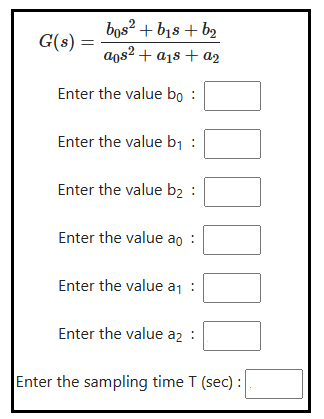
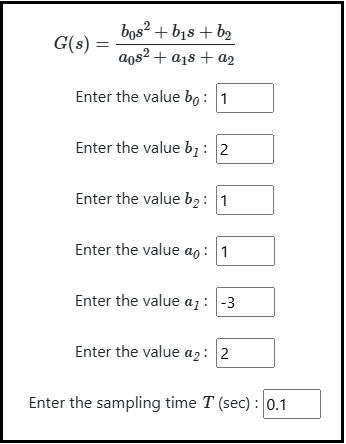
update new aug 29

diff --git a/experiment/simulation/index.html b/experiment/simulation/index.html
@@ -11,7 +11,7 @@
 <!DOCTYPE html>
 <html lang="en"><!--html tag start-->
 <head>
-    <title>Compare the frequency responses with methods and for different sampling times</title>
+    <title>Compare the Frequency Responses using Different Methods and Sampling Times</title>
     <meta charset="UTF-8">
     <meta http-equiv="X-UA-Compatible" content="IE=edge">
     <meta name="viewport" content="width=device-width, initial-scale=1.0">
@@ -139,9 +139,9 @@
         <div class="col-md-10"><!--2nd col under 3rd container start-->
             <p class="text-center bg-success"> <a class="nav-link" data-bs-toggle="tab"  id="instcontrol" style="background-color:#128BD9"  ><span class=" h3 text-dark"> Instructions </span></a>
               <ol id="inst" style="display:block;height:200px;overflow-y:auto;">
-                      <li> At first enter the coefficient values of the transfer function and sampling time. Here default sampling time T is 0.1.</li></br>
+                      <li> At first enter the coefficient values of the transfer function and sampling time. Here default sampling time <span style="font-family:'Bodoni MT';font-style:italic;font-size:18px">T</span> is 0.1.</li></br>
   
-					  <li> Click on 'G(s)' button to get the partial fraction form of the transfer function. </li><br/>
+					  <li> Click on '<span style="font-family:Bodoni MT; font-style:italic;font-size:18px">G</span>(<span style="font-family:Bodoni MT; font-style:italic;font-size:18px">s</span>)' button to get the partial fraction form of the transfer function. </li><br/>
 					 
 					 <li> Clicking on 'Discretization' dropdown-menu to get different methods.</li><br/>
 
@@ -182,30 +182,30 @@
 	
 			<div   class="img-container">			
 			<!--<img class = "img-fluid" src="./images/Continuous_System.png" class="img-fluid" > <br/></br>-->
-			Enter the value b<sub>0</sub>&nbsp; : &nbsp;<input type="number" id="b_0" min="1" value="1" max="10" step="1" style="position:absolute;width:25%" ><br/></br>
-			Enter the value b<sub>1</sub>&nbsp; : &nbsp;<input type="number" id="b_1" min="1" value="2" max="10" step="1" style="position:absolute;width:25%" ><br/></br>
-			Enter the value b<sub>2</sub>&nbsp; : &nbsp;<input type="number" id="b_2" min="1" value="1" max="10" step="1" style="position:absolute;width:25%" ><br/></br>
-            Enter the value a<sub>0</sub>&nbsp; : &nbsp;<input type="number" id="a_0" min="1" value="1" max="10" step="1" style="position:absolute;width:25%" ><br/></br>	
-            Enter the value a<sub>1</sub>&nbsp; : &nbsp;<input type="number" id="a_1" min="-10" value="-3" max="1000" step="1" style="position:absolute;width:25%" ><br/></br>
-            Enter the value a<sub>2</sub>&nbsp; : &nbsp;<input type="number" id="a_2" min="1" value="2" max="1000" step="1" style="position:absolute;width:25%" ><br/></br> 	
+			Enter the value <span style="font-family:'Bodoni MT';font-style:italic;font-size:18px">b<sub>0</sub></span> : &nbsp;<input type="number" id="b_0" min="1" value="1" max="10" step="1" style="position:absolute;width:25%" ><br/></br>
+			Enter the value <span style="font-family:'Bodoni MT';font-style:italic;font-size:18px">b<sub>1</sub></span> : &nbsp;<input type="number" id="b_1" min="1" value="2" max="10" step="1" style="position:absolute;width:25%" ><br/></br>
+			Enter the value <span style="font-family:'Bodoni MT';font-style:italic;font-size:18px">b<sub>2</sub></span> : &nbsp;<input type="number" id="b_2" min="1" value="1" max="10" step="1" style="position:absolute;width:25%" ><br/></br>
+            Enter the value <span style="font-family:'Bodoni MT';font-style:italic;font-size:18px">a<sub>0</sub></span> : &nbsp;<input type="number" id="a_0" min="1" value="1" max="10" step="1" style="position:absolute;width:25%" ><br/></br>	
+            Enter the value <span style="font-family:'Bodoni MT';font-style:italic;font-size:18px">a<sub>1</sub></span> : &nbsp;<input type="number" id="a_1" min="-10" value="-3" max="1000" step="1" style="position:absolute;width:25%" ><br/></br>
+            Enter the value <span style="font-family:'Bodoni MT';font-style:italic;font-size:18px">a<sub>2</sub></span> : &nbsp;<input type="number" id="a_2" min="1" value="2" max="1000" step="1" style="position:absolute;width:25%" ><br/></br> 	
 			<!--Enter the desired sampling time :    <input type="number" id="Ts" min="0.01" value="0.1" max="10" step="0.01" style="position:absolute;width:20%"readonly=readonly><br/></br>-->
 									
-			Enter the    sampling time T (sec)&nbsp; :    &nbsp;<input type="number" onchange="inputChange()" id="Ts" min="0.01" value="0.1" max="0.5" step="0.01" style="position:absolute;width:30%"><br/></br>				
+			Enter the    sampling time <span style="font-family:'Bodoni MT';font-style:italic;font-size:18px">T</span> (sec) :&nbsp;    <input type="number" onchange="inputChange()" id="Ts" min="0.01" value="0.1" max="0.5" step="0.01" style="position:absolute;width:25%"><br/></br>				
 			
-			<button class="btn btn-success" id ="run" onclick="system()">G(s)</button>
+			<button class="btn btn-success" id ="run" onclick="system()"><span style="font-family:Bodoni MT; font-style:italic;font-size:18px">G</span>(<span style="font-family:Bodoni MT; font-style:italic;font-size:18px">s</span>)</button>
 			
 			</div></div>
 			
 			<div id="tfbody" class="card" style="display:none; width:100%;background-color:none">
 			<br/>			
 			<span class="card-text "><b>Transfer Function of Continuous System</b></span><br/><br/><br/>			
-			<span class="card-text" ><b style="position:absolute;width: 6%;left:27%;top: 61%;">G (s) =</b></span> 
-			<span  class="card-text fontCss" >&nbsp;&nbsp;<input type="number" id="tfn1" value="0" readonly=readonly style="width:5%;text-align:center;border:none">&nbsp;<b>s<sup>2</sup></b>
-			+ &nbsp;<input type="number" id="tfn2" value="0" readonly=readonly style="width:5%;text-align:center;border:none">&nbsp;<b>s</b> 
+			<span class="card-text" ><b style="position:absolute;width: 6%;left:27%;top: 61%;"><span style="font-family:Bodoni MT; font-style:italic;font-size:18px">G</span>(<span style="font-family:Bodoni MT; font-style:italic;font-size:18px">s</span>) =</b></span> 
+			<span  class="card-text fontCss" >&nbsp;&nbsp;<input type="number" id="tfn1" value="0" readonly=readonly style="width:5%;text-align:center;border:none">&nbsp;<b><span style="font-family:Bodoni MT; font-style:italic;font-size:18px">s<sup>2</sup></span></b>
+			+ &nbsp;<input type="number" id="tfn2" value="0" readonly=readonly style="width:5%;text-align:center;border:none">&nbsp;<b><span style="font-family:Bodoni MT; font-style:italic;font-size:18px">s</span></b> 
 			+ &nbsp; <input type="number" id="tfn3" value="0" readonly=readonly style="width:5%;text-align:center;border:none"></span><br/>
 			<br/>
-			<span  class="card-text fontCss" >&nbsp;&nbsp;<input type="number" id="tfd1" value="0" readonly=readonly style="width:5%;text-align:center;border:none">&nbsp;<b>s<sup>2</sup></b>
-			+ &nbsp;<input type="number" id="tfd2" value="0" readonly=readonly style="width:5%;text-align:center;border:none">&nbsp;<b>s</b> 
+			<span  class="card-text fontCss" >&nbsp;&nbsp;<input type="number" id="tfd1" value="0" readonly=readonly style="width:5%;text-align:center;border:none">&nbsp;<b><span style="font-family:Bodoni MT; font-style:italic;font-size:18px">s<sup>2</sup></span></b>
+			+ &nbsp;<input type="number" id="tfd2" value="0" readonly=readonly style="width:5%;text-align:center;border:none">&nbsp;<b><span style="font-family:Bodoni MT; font-style:italic;font-size:18px">s</span></b> 
 			+ &nbsp; <input type="number" id="tfd3" value="0" readonly=readonly style="width:5%;text-align:center;border:none"></span>
 			<hr  style="position:absolute;width: 33%;left: 34%;top: 59%;">
 						
@@ -253,7 +253,7 @@
 			
 			
 			<div  id="pfG" class="img-container" style="visibility:hidden">			
-			<b>Partial Fractions form of given system, G(s):</b></br>
+			<b>Partial Fractions form of given system, <span style="font-family:Bodoni MT; font-style:italic;font-size:18px">G</span>(<span style="font-family:Bodoni MT; font-style:italic;font-size:18px">s</span>):</b></br>
 			<!--<img class = "img-fluid" src="./images/pf.png" class="img-fluid" > <br/></br> -->
 			
 			<div id="tfbody2" class="card" style="display:none;width:100%;min-width:1000px;background-color:none">
@@ -262,23 +262,23 @@
 			$$G (s) = \frac{b_0 s^2 + b_1 s + b_2}{a_0 s^2 + a_1 s + a_2} = b_0 + \frac{e_0 s + e_1}{a_0 s^2 + a_1 s + a_2} = b_0 + \frac{A_1}{s + (p_1)} + \frac{A_2}{s + (p_2)}$$
 			<!--<span class="card-text "><b>Equation example</b></span><br/><br/><br/>	-->
 		
-			<span class="card-text" ><b style="position:absolute;min-width:5%;left:0%;top:70%;"><span class="fontCss">G</span>(s) =</b></span>
+			<span class="card-text" ><b style="position:absolute;min-width:5%;left:0%;top:70%;"><span style="font-family:Bodoni MT; font-style:italic;font-size:18px">G</span>(<span style="font-family:Bodoni MT; font-style:italic;font-size:18px">s</span>) =</b></span>
 			
-			<span  class="card-text fontCss"style="position:absolute;left:-17%;top: 62%;" >&nbsp;&nbsp;<input type="number" id="tfn4" value="0" readonly=readonly style="width:6%;text-align:center;border:none">&nbsp;<b>s<sup>2</sup></b>
-			+ &nbsp;<input type="number" id="tfn5" value="0" readonly=readonly style="width:6%;text-align:center;border:none">&nbsp;<b>s</b> 
+			<span  class="card-text fontCss"style="position:absolute;left:-17%;top: 62%;" >&nbsp;&nbsp;<input type="number" id="tfn4" value="0" readonly=readonly style="width:6%;text-align:center;border:none">&nbsp;<b><span style="font-family:Bodoni MT; font-style:italic;font-size:18px">s<sup>2</sup></span></b>
+			+ &nbsp;<input type="number" id="tfn5" value="0" readonly=readonly style="width:6%;text-align:center;border:none">&nbsp;<b><span style="font-family:Bodoni MT; font-style:italic;font-size:18px">s</span></b> 
 			+ &nbsp; <input type="number" id="tfn6" value="0" readonly=readonly style="width:6%;text-align:center;border:none"></span><br/>
 			<br/>
-			<span  class="card-text fontCss" style="position:absolute;left:-17%;top: 78%;">&nbsp;&nbsp;<input type="number" id="tfd4" value="0" readonly=readonly style="width:6%;text-align:center;border:none">&nbsp;<b>s<sup>2</sup></b>
-			+ &nbsp;<input type="number" id="tfd5" value="0" readonly=readonly style="width:6%;text-align:center;border:none">&nbsp;<b>s</b> 
+			<span  class="card-text fontCss" style="position:absolute;left:-17%;top: 78%;">&nbsp;&nbsp;<input type="number" id="tfd4" value="0" readonly=readonly style="width:6%;text-align:center;border:none">&nbsp;<b><span style="font-family:Bodoni MT; font-style:italic;font-size:18px">s<sup>2</sup></span></b>
+			+ &nbsp;<input type="number" id="tfd5" value="0" readonly=readonly style="width:6%;text-align:center;border:none">&nbsp;<b><span style="font-family:Bodoni MT; font-style:italic;font-size:18px">s</span></b> 
 			+ &nbsp; <input type="number" id="tfd6" value="0" readonly=readonly style="width:6%;text-align:center;border:none"></span>
 			<hr  style="position:absolute;width: 18%;left: 6%;top: 69%;">
 			
 			<span style="position:absolute;left:18%;top: 70%;">=<input type="number" id="tfn7" value="0" readonly=readonly style="width:18%;text-align:center;border:none;"> + </span>
 			
-			<span style="position:absolute;left:23%;top: 62%;"><input type="number" id="tfn8" value="0" readonly=readonly style="width:20%;text-align:center;border:none;"> s + 
+			<span style="position:absolute;left:23%;top: 62%;"><input type="number" id="tfn8" value="0" readonly=readonly style="width:20%;text-align:center;border:none;"> <b> <span style="font-family:Bodoni MT; font-style:italic;font-size:18px">s</sup></span></b> + 
 			<input type="number" id="tfn9" value="0" readonly=readonly style="width:20%;text-align:center;border:none;"></span>
-			<span  class="card-text fontCss" style="position:absolute;left:10%;top: 78%;">&nbsp;&nbsp;<input type="number" id="tfd7" value="0" readonly=readonly style="width:5%;text-align:center;border:none">&nbsp;<b>s<sup>2</sup></b>
-			+ &nbsp;<input type="number" id="tfd8" value="0" readonly=readonly style="width:6%;text-align:center;border:none">&nbsp;<b>s</b> 
+			<span  class="card-text fontCss" style="position:absolute;left:10%;top: 78%;">&nbsp;&nbsp;<input type="number" id="tfd7" value="0" readonly=readonly style="width:5%;text-align:center;border:none">&nbsp;<b><span style="font-family:Bodoni MT; font-style:italic;font-size:18px">s<sup>2</sup></span></b>
+			+ &nbsp;<input type="number" id="tfd8" value="0" readonly=readonly style="width:6%;text-align:center;border:none">&nbsp;<b><span style="font-family:Bodoni MT; font-style:italic;font-size:18px">s</span></b> 
 			+ &nbsp; <input type="number" id="tfd9" value="0" readonly=readonly style="width:6%;text-align:center;border:none"></span>
 			<hr  style="position:absolute;width: 19%;left:33%;top:69%;">
 			
@@ -286,13 +286,13 @@
 			
 			<span style="position:absolute;left:46%;top: 70%;">= <input type="number" id="tfn10" value="0" readonly=readonly style="width:18%;text-align:center;border:none;"> + </span>
 			<span style="position:absolute;left:56%;top: 62%;"><input type="text" id="tfn11" value="0" readonly=readonly style="width:55%;text-align:center;border:none;"></span>			
-			<span style="position:absolute;left:57%;top: 77%;">s +( <input type="text" id="tfd10" value="0" readonly=readonly style="width:45%;text-align:center;border:none;">)</span>
+			<span style="position:absolute;left:57%;top: 77%;"><b><span style="font-family:Bodoni MT; font-style:italic;font-size:18px">s</span> </b>+( <input type="text" id="tfd10" value="0" readonly=readonly style="width:45%;text-align:center;border:none;">)</span>
 			
 			<hr  style="position:absolute;width: 18%;left:61%;top:69%;">
 			
 			<span style="position:absolute;left:80%;top: 70%;">+</span>
 			<span style="position:absolute;left:78%;top: 62%;"><input type="text" id="tfn12" value="0" readonly=readonly style="width:55%;text-align:center;border:none;"></span>
-			<span style="position:absolute;left:79%;top: 77%;">s + (<input type="text" id="tfd11" value="0" readonly=readonly style="width:45%;text-align:center;border:none;">)</span>
+			<span style="position:absolute;left:79%;top: 77%;"><b><span style="font-family:Bodoni MT; font-style:italic;font-size:18px">s</span> </b>+ (<input type="text" id="tfd11" value="0" readonly=readonly style="width:45%;text-align:center;border:none;">)</span>
 			<hr  style="position:absolute;width: 18%;left:82%;top: 69%;">
 									
 			<br/><br/>
@@ -411,18 +411,18 @@
 			+&nbsp;<input type="number" id="tfd18" value="0" readonly=readonly style="width:20%;text-align:center;border:none"></span>
 			<hr  style="position:absolute;width: 24%;left:69%;top: 70%;"> -->	
 			
-			<span class="card-text" ><b style="position:absolute;min-width:6%;left:30%;top:70%;"><span class="fontCss">G</span>(z) =</b></span>
+			<span class="card-text" ><b style="position:absolute;min-width:6%;left:30%;top:70%;"><span style="font-family:Bodoni MT; font-style:italic;font-size:18px">G</span>(<span style="font-family:Bodoni MT; font-style:italic;font-size:18px">z</span>) =</b></span>
 			
 			
 			
 			<span class="card-text"style="position:absolute;left:28%;top: 62%;" >
-			&nbsp;<input type="number" id="tfn19" value="0" readonly=readonly style="width:20%;text-align:center;border:none"><span class="fontCss">z<sup>2</sup></span>
-			+&nbsp;<input type="number" id="tfn20" value="0" readonly=readonly style="width:20%;text-align:center;border:none"><span class="fontCss">z</span>
+			&nbsp;<input type="number" id="tfn19" value="0" readonly=readonly style="width:20%;text-align:center;border:none"><b><span style="font-family:Bodoni MT; font-style:italic;font-size:18px">z<sup>2</sup></span></b>
+			+&nbsp;<input type="number" id="tfn20" value="0" readonly=readonly style="width:20%;text-align:center;border:none"><b><span style="font-family:Bodoni MT; font-style:italic;font-size:18px">z</span></b>
 			+&nbsp;<input type="number" id="tfn21" value="0" readonly=readonly style="width:20%;text-align:center;border:none"></span>
 			
 			<span class="card-text"style="position:absolute;left:28%;top: 80%;" >
-			&nbsp;<input type="number" id="tfd16" value="0" readonly=readonly style="width:20%;text-align:center;border:none"><span class="fontCss">z<sup>2</sup></span>
-			+&nbsp;<input type="number" id="tfd17" value="0" readonly=readonly style="width:20%;text-align:center;border:none"><span class="fontCss">z</span>
+			&nbsp;<input type="number" id="tfd16" value="0" readonly=readonly style="width:20%;text-align:center;border:none"><b><span style="font-family:Bodoni MT; font-style:italic;font-size:18px">z<sup>2</sup></span></b>
+			+&nbsp;<input type="number" id="tfd17" value="0" readonly=readonly style="width:20%;text-align:center;border:none"><b><span style="font-family:Bodoni MT; font-style:italic;font-size:18px">z</span></b>
 			+&nbsp;<input type="number" id="tfd18" value="0" readonly=readonly style="width:20%;text-align:center;border:none"></span>
 			<hr  style="position:absolute;width: 36%;left:40%;top: 70%;">		
 
@@ -494,13 +494,13 @@
 			
 			
 			<span class="card-text"style="position:absolute;left:28%;top: 62%;" >
-			&nbsp;<input type="number" id="tfnf19" value="0" readonly=readonly style="width:20%;text-align:center;border:none"><span class="fontCss">e<sup>j2ω </sup></span>
-			+&nbsp;<input type="number" id="tfnf20" value="0" readonly=readonly style="width:20%;text-align:center;border:none"><span class="fontCss">e<sup>jω </sup></span>
+			&nbsp;<input type="number" id="tfnf19" value="0" readonly=readonly style="width:20%;text-align:center;border:none"><b><span style="font-family:Bodoni MT; font-style:italic;font-size:18px">e<sup>j2&omega;</sup></span></b>
+			+&nbsp;<input type="number" id="tfnf20" value="0" readonly=readonly style="width:20%;text-align:center;border:none"><b><span style="font-family:Bodoni MT; font-style:italic;font-size:18px">e<sup>j&omega;</sup></span></b>
 			+&nbsp;<input type="number" id="tfnf21" value="0" readonly=readonly style="width:20%;text-align:center;border:none"></span>
 			
 			<span class="card-text"style="position:absolute;left:28%;top: 80%;" >
-			&nbsp;<input type="number" id="tfdf16" value="0" readonly=readonly style="width:20%;text-align:center;border:none"><span class="fontCss">e<sup>j2ω </sup></span>
-			+&nbsp;<input type="number" id="tfdf17" value="0" readonly=readonly style="width:20%;text-align:center;border:none"><span class="fontCss">e<sup>jω </sup></span>
+			&nbsp;<input type="number" id="tfdf16" value="0" readonly=readonly style="width:20%;text-align:center;border:none"><b><span style="font-family:Bodoni MT; font-style:italic;font-size:18px">e<sup>j2&omega;</sup></span></b>
+			+&nbsp;<input type="number" id="tfdf17" value="0" readonly=readonly style="width:20%;text-align:center;border:none"><b><span style="font-family:Bodoni MT; font-style:italic;font-size:18px">e<sup>j&omega;</sup></span></b>
 			+&nbsp;<input type="number" id="tfdf18" value="0" readonly=readonly style="width:20%;text-align:center;border:none"></span>
 			<hr  style="position:absolute;width: 40%;left:40%;top: 70%;">	
 
@@ -516,18 +516,18 @@
 			$$G (z) = \frac{d_0 z^2 + d_1 z + d_2}{z^2 + c_1 z + c_2}$$
 			<br/>
 		
-			<span class="card-text" ><b style="position:absolute;min-width:6%;left:30%;top:70%;"><span class="fontCss">G</span>(z) =</b></span>
+			<span class="card-text" ><b style="position:absolute;min-width:6%;left:30%;top:70%;"> <span style="font-family:Bodoni MT; font-style:italic;font-size:18px">G</span>(<span style="font-family:Bodoni MT; font-style:italic;font-size:18px">z</span>) =</b></span>
 			
 			
 			
 			<span class="card-text"style="position:absolute;left:28%;top: 62%;" >
-			&nbsp;<input type="number" id="tfn22" value="0" readonly=readonly style="width:20%;text-align:center;border:none"><span class="fontCss">z<sup>2</sup></span>
-			+&nbsp;<input type="number" id="tfn23" value="0" readonly=readonly style="width:20%;text-align:center;border:none"><span class="fontCss">z</span>
+			&nbsp;<input type="number" id="tfn22" value="0" readonly=readonly style="width:20%;text-align:center;border:none"><span style="font-family:Bodoni MT; font-style:italic;font-size:18px">z<sup>2</sup></span></b>
+			+&nbsp;<input type="number" id="tfn23" value="0" readonly=readonly style="width:20%;text-align:center;border:none"><span style="font-family:Bodoni MT; font-style:italic;font-size:18px">z</span></b>
 			+&nbsp;<input type="number" id="tfn24" value="0" readonly=readonly style="width:20%;text-align:center;border:none"></span>
 			
 			<span class="card-text"style="position:absolute;left:28%;top: 80%;" >
-			&nbsp;<input type="number" id="tfd19" value="0" readonly=readonly style="width:20%;text-align:center;border:none"><span class="fontCss">z<sup>2</sup></span>
-			+&nbsp;<input type="number" id="tfd20" value="0" readonly=readonly style="width:20%;text-align:center;border:none"><span class="fontCss">z</span>
+			&nbsp;<input type="number" id="tfd19" value="0" readonly=readonly style="width:20%;text-align:center;border:none"><span style="font-family:Bodoni MT; font-style:italic;font-size:18px">z<sup>2</sup></span></b>
+			+&nbsp;<input type="number" id="tfd20" value="0" readonly=readonly style="width:20%;text-align:center;border:none"><span style="font-family:Bodoni MT; font-style:italic;font-size:18px">z</span></b>
 			+&nbsp;<input type="number" id="tfd21" value="0" readonly=readonly style="width:20%;text-align:center;border:none"></span>
 			<hr  style="position:absolute;width: 36%;left:40%;top: 70%;">						
 			<br/><br/>
@@ -544,13 +544,13 @@
 			
 			
 			<span class="card-text"style="position:absolute;left:28%;top: 62%;" >
-			&nbsp;<input type="number" id="tfnf22" value="0" readonly=readonly style="width:20%;text-align:center;border:none"><span class="fontCss">e<sup>j2ω </sup></span>
-			+&nbsp;<input type="number" id="tfnf23" value="0" readonly=readonly style="width:20%;text-align:center;border:none"><span class="fontCss">e<sup>jω </sup></span>
+			&nbsp;<input type="number" id="tfnf22" value="0" readonly=readonly style="width:20%;text-align:center;border:none"><b><span style="font-family:Bodoni MT; font-style:italic;font-size:18px">e<sup>j2&omega;</sup></span></b>
+			+&nbsp;<input type="number" id="tfnf23" value="0" readonly=readonly style="width:20%;text-align:center;border:none"><b><span style="font-family:Bodoni MT; font-style:italic;font-size:18px">e<sup>j&omega;</sup></span></b>
 			+&nbsp;<input type="number" id="tfnf24" value="0" readonly=readonly style="width:20%;text-align:center;border:none"></span>
 			
 			<span class="card-text"style="position:absolute;left:28%;top: 80%;" >
-			&nbsp;<input type="number" id="tfdf19" value="0" readonly=readonly style="width:20%;text-align:center;border:none"><span class="fontCss">e<sup>j2ω </sup></span>
-			+&nbsp;<input type="number" id="tfdf20" value="0" readonly=readonly style="width:20%;text-align:center;border:none"><span class="fontCss">e<sup>jω </sup></span>
+			&nbsp;<input type="number" id="tfdf19" value="0" readonly=readonly style="width:20%;text-align:center;border:none"><b><span style="font-family:Bodoni MT; font-style:italic;font-size:18px">e<sup>j2&omega;</sup></span></b>
+			+&nbsp;<input type="number" id="tfdf20" value="0" readonly=readonly style="width:20%;text-align:center;border:none"><b><span style="font-family:Bodoni MT; font-style:italic;font-size:18px">e<sup>j&omega;</sup></span></b>
 			+&nbsp;<input type="number" id="tfdf21" value="0" readonly=readonly style="width:20%;text-align:center;border:none"></span>
 			<hr  style="position:absolute;width: 40%;left:40%;top: 70%;">						
 			<br/><br/>

diff --git a/experiment/theory.md b/experiment/theory.md
@@ -1,13 +1,13 @@
 # Theory
 
 <b><i>Impulse Invariance Method:</i></b> <br>
-Using the impulse invariance method, <i>H(z)</i> is directly generated from <i>H(s)</i> using a mapping that depends on the sampling period and the locations of the poles of <i>H(s)</i>. 
-Because the input is an impulse, the system transfer function <i>H(s)</i> is the same as the Laplace transform of the response <i>y(t)</i>.<br>
-The method starts by expressing the Laplace transfer function <i>H(s)</i> in partial form
+Using the impulse invariance method, <span style="font-family:Bodoni MT; font-style:italic;font-size:18px">H</span>(<span style="font-family:Bodoni MT; font-style:italic;font-size:18px">z</span>) is directly generated from <span style="font-family:Bodoni MT; font-style:italic;font-size:18px">H</span>(<span style="font-family:Bodoni MT; font-style:italic;font-size:18px">s</span>) using a mapping that depends on the sampling period and the locations of the poles of <span style="font-family:Bodoni MT; font-style:italic;font-size:18px">H</span>(<span style="font-family:Bodoni MT; font-style:italic;font-size:18px">s</span>). 
+Because the input is an impulse, the system transfer function <span style="font-family:Bodoni MT; font-style:italic;font-size:18px">H</span>(<span style="font-family:Bodoni MT; font-style:italic;font-size:18px">s</span>) is the same as the Laplace transform of the response <span style="font-family:Bodoni MT; font-style:italic;font-size:18px">y</span>(<span style="font-family:Bodoni MT; font-style:italic;font-size:18px">t</span>).<br>
+The method starts by expressing the Laplace transfer function <span style="font-family:Bodoni MT; font-style:italic;font-size:18px">H</span>(<span style="font-family:Bodoni MT; font-style:italic;font-size:18px">s</span>) in partial form
 
 $$ H(s) = \sum_{i=1}^{N}\frac{A_i}{(s-p_i)} \tag{1}$$
 
-where <i> N </i> is the order of the system, poles are located at the points <i>p<sub>i</sub></i>.<br>
+where <span style="font-family:Bodoni MT; font-style:italic;font-size:18px">N</span> is the order of the system, poles are located at the points <span style="font-family:Bodoni MT; font-style:italic;font-size:18px">p<sub>i</sub></span>.<br>
 Then the discrete system can be written as:
 
 $$ H(z) = \sum_{i=1}^{N}\frac{T A_i}{(1-z^{-1} e^{Tp_i})} \tag{2}$$
@@ -17,8 +17,7 @@ The frequency response of the discrete system can be written as:
 
 $$ H(e^{j\omega}) = \sum_{i=1}^{N}\frac{T A_i}{(1-e^{-j\omega} e^{Tp_i})} \tag{3}$$
 
-In the case of a pole of order two, which pertains to the damping ratio &zeta;=1,
-
+In the case of a pole of order two, which pertains to the damping ratio <span style="font-family:Bodoni MT; font-style:italic;font-size:18px">&zeta; = 1</span>,
 $$ H(z) = \sum_{i=1}^{N}\frac{T z e^{Tp_i}}{(e^{Tp_i}-z)^2} \tag{4}$$
 
 The frequency response of the discrete system can be written as:
@@ -27,10 +26,10 @@ $$ H(e^{j\omega}) = \sum_{i=1}^{N}\frac{T e^{j\omega} e^{Tp_i}}{(e^{Tp_i}-e^{j\o
 
 <b><i>Bilinear Transform Method:</i></b> <br>
 The bilinear transform is used in digital control theory and digital signal processing to transform continuous-time system representation to discrete-time and vice-versa. 
-The bilinear transform is often used to convert a transfer function <i>H<sub>a</sub>(s)</i> of a linear time-invariant (LTI) in the continuous-time domain to 
-a transfer function <i>H<sub>d</sub>(z)</i> of a linear shift-invariant in the discrete time domain. <br>
+The bilinear transform is often used to convert a transfer function <span style="font-family:Bodoni MT; font-style:italic;font-size:18px">H<sub>a</sub></span>(<span style="font-family:Bodoni MT; font-style:italic;font-size:18px">s</span>) of a linear time-invariant (LTI) in the continuous-time domain to 
+a transfer function <span style="font-family:Bodoni MT; font-style:italic;font-size:18px">H<sub>d</sub></span>(<span style="font-family:Bodoni MT; font-style:italic;font-size:18px">z</span>) of a linear shift-invariant in the discrete time domain. <br>
 The bilinear transform is a first-order pade approximation of the natural logrithm function that is an exact mapping of the <i>z</i>-plane to the <i>s</i>-plane. When the Laplace transform is performed on a discrete-time signal, 
-the result is precisely the <i>z</i>-transform of the discrete-time sequence with the substitute of <i>z = e<sup>sT</sup></i>
+the result is precisely the <i>z</i>-transform of the discrete-time sequence with the substitute of <span style="font-family:Bodoni MT; font-style:italic;font-size:18px">z = e<sup>sT</sup></span>
 
 $$ z = e^{sT} $$
 
@@ -38,8 +37,8 @@ $$ \approx \frac{e^{sT/2}}{e^{-sT/2}}\ $$
 
 $$ \approx \frac{1+\frac{sT}{2}}{1- \frac {sT}{2}}\tag{6} $$
 
-where <i>T</i> is the numerical integration step size of the trapezoidal rule used in the bilinear transformation derivation 
-or <i>T</i> is the sampling period.
+where <span style="font-family:Bodoni MT; font-style:italic;font-size:18px">T</span> is the numerical integration step size of the trapezoidal rule used in the bilinear transformation derivation 
+or <span style="font-family:Bodoni MT; font-style:italic;font-size:18px">T</span> is the sampling period.
 
 $$ s = \frac{1}{T} ln(z) $$
 
@@ -52,6 +51,7 @@ The frequency response of the discrete system can be written as:
 
 
 $$ H(z) = H(e^{j\omega})\tag{8} $$
+
 
 
 

diff --git a/README.md b/README.md
@@ -7,16 +7,16 @@
 <b>Discipline | <b>Electrical Engineering 
 :--|:--|
 <b> Lab | <b> Digital Control Laboratory
-<b> Experiment|     <b> Compare the frequency responses with methods and for different sampling times and Exp 4
+<b> Experiment|     <b> Compare the Frequency Responses using Different Methods and Sampling Times and Exp 4
 
 ### About the Experiment 
 
 The frequency response of a discrete system describes how the system responds to sinusoidal inputs of varying frequencies. It is a key concept in signal processing and helps in analyzing the system's behavior in the frequency domain.
-For a discrete-time system, the frequency response is found by evaluating the system’s transfer function H(z) on the unit circle in the Z-plane, where z=e^jω. 
-This results in H(e^jω), which represents the system's response to a sinusoidal input of frequency ω. </br>
+For a discrete-time system, the frequency response is found by evaluating the system’s transfer function <span style="font-family:Bodoni MT; font-style:italic;font-size:18px">H</span>(<span style="font-family:Bodoni MT; font-style:italic;font-size:18px">z</span>) on the unit circle in the Z-plane, where <span style="font-family:Bodoni MT; font-style:italic;font-size:18px">z = e <sup>j&omega;</sup></span>. 
+This results in <span style="font-family:Bodoni MT; font-style:italic;font-size:18px">H</span>(<span style="font-family:Bodoni MT; font-style:italic;font-size:18px">e <sup>j&omega;</sup></span>), which represents the system's response to a sinusoidal input of frequency <span style="font-family:Bodoni MT; font-style:italic;font-size:18px">&omega;</span>. </br>
 The frequency response can be broken into two components: </br>
-Magnitude Response: |H(e^jω)|, which indicates how much the system amplifies or attenuates the input at each frequency. </br>
-Phase Response: arg(H(e^jω)), which shows the phase shift the system introduces at each frequency. </br>
+Magnitude Response: |<span style="font-family:Bodoni MT; font-style:italic;font-size:18px">H</span>(<span style="font-family:Bodoni MT; font-style:italic;font-size:18px">e <sup>j&omega;</sup></span>)|, which indicates how much the system amplifies or attenuates the input at each frequency. </br>
+Phase Response: <span style="font-size:25px">&ang;</span>(<span style="font-family:Bodoni MT; font-style:italic;font-size:18px">H</span>(<span style="font-family:Bodoni MT; font-style:italic;font-size:18px">e <sup>j&omega;</sup></span>)), which shows the phase shift the system introduces at each frequency. </br>
 
 The frequency response is crucial in filter design (low-pass, high-pass, etc.), system identification, and stability analysis. It helps determine how a system modifies the amplitude and phase of sinusoidal components of a signal. 
 A stable system's frequency response will not cause instability or excessive amplification at any frequency, making it a vital tool in both analysis and design of discrete systems.

diff --git a/experiment/procedure.md b/experiment/procedure.md
@@ -3,7 +3,7 @@
 <b>Steps to perform the simulation</b>
 
 										
-1. At first enter the coefficient values of the transfer function and sampling time T. 
+1. At first enter the coefficient values of the transfer function and sampling time <span style="font-family:'Bodoni MT';font-style:italic;font-size:18px">T</span>. 
 
 <div align="center">
 <img class="img-fluid"  src="./images/Prod_1.png" alt="">
